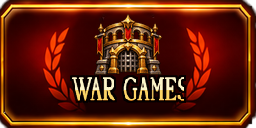
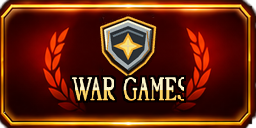
Ship clean War Games crest and permanent scrollbar gutter

Changed region(s): [[0.3438, 0.125, 0.6562, 0.5938]]

diff --git a/tools/community/generate_wargames_plate.py b/tools/community/generate_wargames_plate.py
@@ -198,10 +198,10 @@ def encode_rgba(rows: list[bytearray]) -> bytes:
 
 def bake_emblem(rows):
     """A crisp faction-neutral shield/star crest instead of Hall's swords."""
-    gate=read_emblem()
+    crest=read_emblem()
     left=(256-84)//2
     top=14  # protect Hall's outer rim; shadow stays inside the plaque
-    for y, pixels in enumerate(gate):
+    for y, pixels in enumerate(crest):
         for x in range(84):
             i=x*4
             alpha=pixels[i+3]/255.
